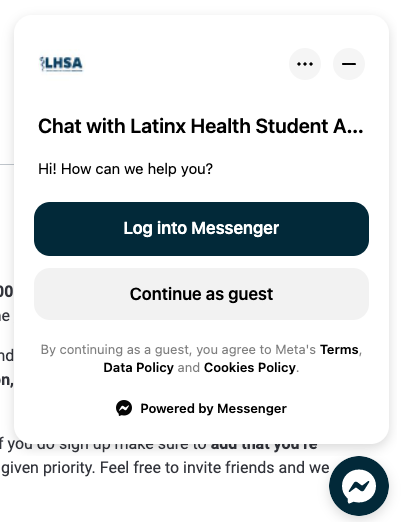
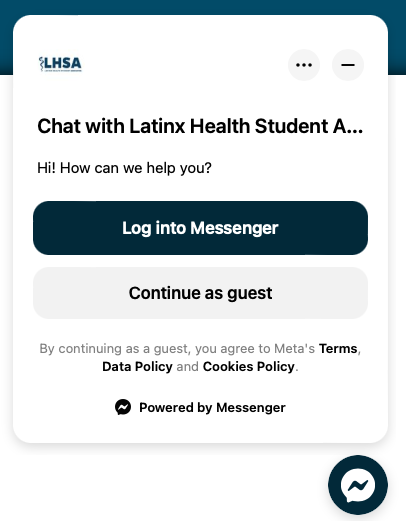
Updated readme

diff --git a/README.md b/README.md
@@ -8,6 +8,7 @@ Custom components include:
 - Accordians
 - Responsive navigation menu
 - Slideshow with carousel
+- Image gallery
 
 Extras include:
 - Facebook chat integration
@@ -15,7 +16,7 @@ Extras include:
 
 ## Feature Highlights
 
-### Google Calendar Component | PHP, AJAX, Javascript
+### Google Calendar Component | PHP, AJAX, Javascript, HTML, CSS
 - Uses Google Calendar API
 - Uses Google's Oauth to authenticate calendar account
 - Acccesses a google calendar feed and extracts details for a single or multiple events including:
@@ -31,7 +32,7 @@ Extras include:
 | ![Screenshot of Google Calendar Plugin on Dekstop](screenshots/calendar_desktop.png?) | ![Screenshot of mobile google Calendar Plugin](screenshots/calendar_mobile.png) |
 
 
-### Navigation Menu
+### Navigation Menu | HTML, CSS, Javascript
 - Menu navigation is fully respnosive to large and small screens
 - On large screens it expands to show full links to all pages 
 - on small screens, links collapse into a hamburger menu which can be used to open up a menu containing page links
@@ -56,31 +57,42 @@ Extras include:
 | ![Screenshot of expanded accordion on mobile](screenshots/accordion_mobile_expanded.png) | ![Screenshot of collapsed accordion on mobile](screenshots/accordion_mobile_collapsed.png) |
 
 
-### Slideshow With Carousel
+### Slideshow With Carousel | HTML, CSS, Javascript
 - Slideshow is meant to showcase photos of most exciting events. The user can switch between photos using the next and previous buttons integrated into the carousel below it
 - the carousel also contains thumbnails of all the available images in the slideshow
 
-| Expanded view on mobile | Collapsed view on mobile |
+| Desktop View | Mobile View |
 | ----------- | ----------- |
 | ![Screenshot of slideshow on desktop](screenshots/slideshow_desktop.png) | ![Screenshot of slideshow on mobile](screenshots/slideshow_mobile.png) |
 
 
+### Image Gallery | HTML, CSS
+- Responsive image gallery displayed in a grid
+- The first image is highlighted on both desktop and mobile views
+
+| Desktop View | Mobile View |
+| ----------- | ----------- |
+| ![Screenshot of image gallery on desktop](screenshots/gallery_desktop.png) | ![Screenshot of image gallery on mobile](screenshots/gallery_mobile.png) |
+
+
 ## Extra Features
 
-### Facebook Chat integration
+### Facebook Chat integration | HTML
 - The club already had a facebook page. Facebook chat plugin was integrated so site visitors could automatically engage with club members and ask frequently asked questions. 
 - chat integration was customized with color to fit with the sites overall aesthetic and brand
 
 | ![Screenshot of Facebook Chat](screenshots/facebook_chat_1.png) | ![Screenshot of Facebook Chate 2](screenshots/facebook_chat_2.png) |
 
 
-### Google Maps Integration
+### Google Maps Integration | HTML, CSS
 - Google maps embeds were used to show where the club meets on different occasions. Maps are completely interactable and allow user to zoom in on specific streets or get gps directions.
 - embed was made fully responsive for large and small screen sizes
+
 ![Screenshot of Google Maps Integrations](screenshots/google_maps.png)
 
 
-### Google My Maps Integration
+### Google My Maps Integration | HTML, CSS
 - Google My Maps embed was also used to create a custom map showing available parking locations and details of said locations to club events.
 - embed was made fully responsive for large and small screen sizes
+
 ![Screenshot of Google My Maps](screenshots/google_my_maps.png)
